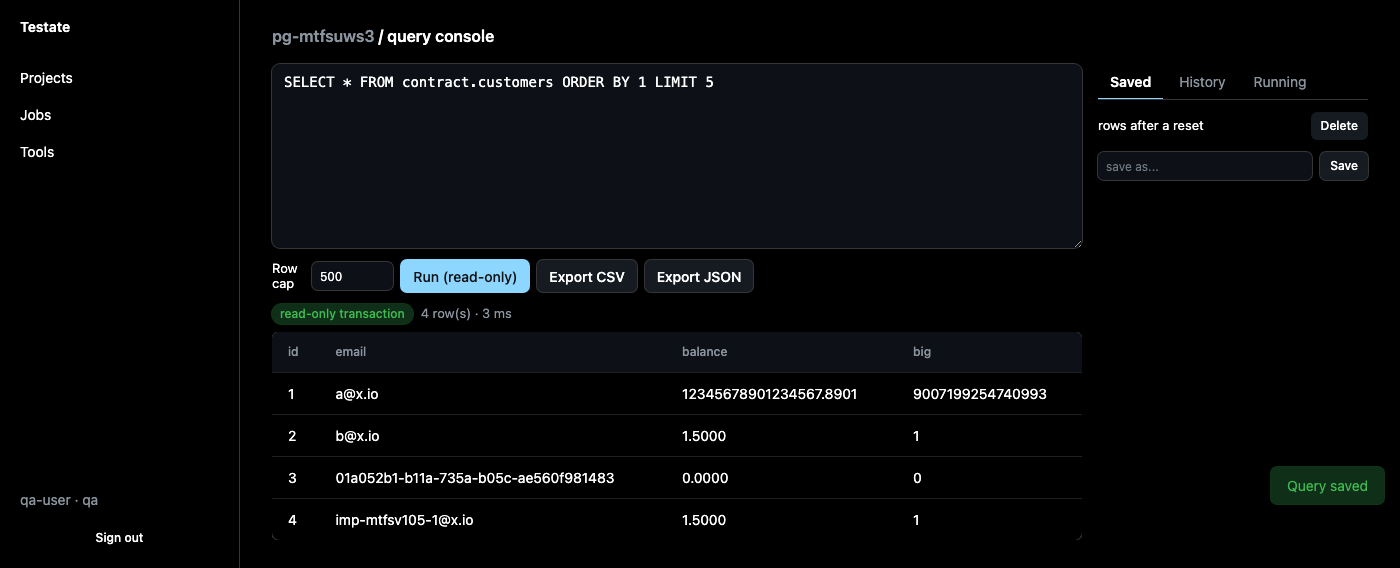
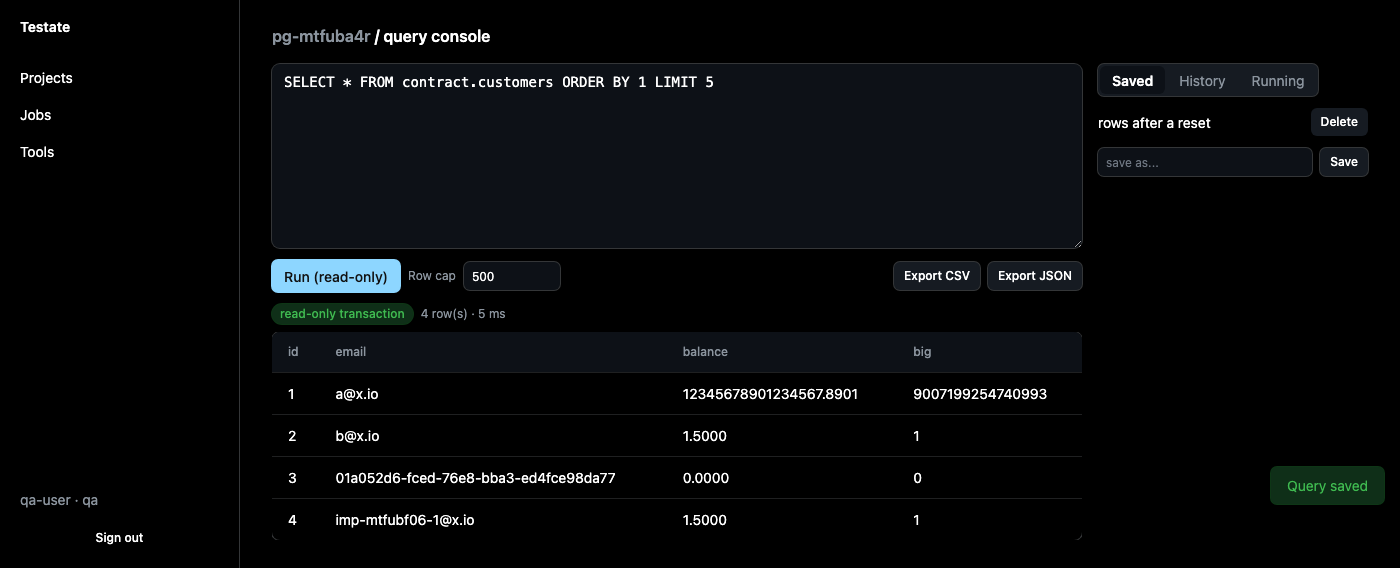
feat(web): the query console, the file browser, and the saved requests
The query console's controls were one row of five: Run sits with the row cap it
obeys, the two exports sit on the right, and what the result cost you reads
underneath in the footer's voice. The side panel's own tabs are segmented, not
a second underline row inside a panel.

The file browser's filter and its two ways back out are a toolbar, sizes line
up on the right, modified times go through the same formatter as every other
timestamp in the product rather than printing the raw ISO string, and the
download link looks like the control it is. An empty directory says so, and the
footer says how many entries you are looking at.

Saved requests say what they are for when there are none.

diff --git a/apps/web/src/features/storage/storage.view.tsx b/apps/web/src/features/storage/storage.view.tsx
@@ -1,14 +1,23 @@
 import type { JSX } from "@solidjs/web";
+import { formatWhen } from "@/lib/format.ts";
 import AdapterCrumb from "@/features/adapter/adapter.crumb.view.tsx";
 import { Errored, For, Loading, Show, Switch, Match } from "solid-js";
 import type { Entry, PreviewPayload } from "@testate/shared";
 
 import Badge from "@/components/badge.tsx";
 import Banner from "@/components/banner.tsx";
-import Button from "@/components/button.tsx";
+import Button, { buttonClass } from "@/components/button.tsx";
 import Dialog from "@/components/dialog.tsx";
 import Input from "@/components/input.tsx";
-import { Cell, Head, Row, Table } from "@/components/table.tsx";
+import {
+  Cell,
+  EmptyRow,
+  Head,
+  Row,
+  Table,
+  TableFooter,
+  TableToolbar,
+} from "@/components/table.tsx";
 import { hasRole } from "@/lib/session.ts";
 import { formatBytes } from "../states/states.format.ts";
 import { createStoragePresenter } from "./storage.presenter.ts";
@@ -133,12 +142,16 @@ function EntryRow(props: { presenter: StoragePresenter; entry: Entry }): JSX.Ele
           </a>
         </Show>
       </Cell>
-      <Cell>{props.entry.size_bytes === null ? "" : formatBytes(props.entry.size_bytes)}</Cell>
-      <Cell>{props.entry.modified_at ?? ""}</Cell>
+      <Cell numeric>
+        {props.entry.size_bytes === null ? "" : formatBytes(props.entry.size_bytes)}
+      </Cell>
+      <Cell class="whitespace-nowrap">
+        {props.entry.modified_at === null ? "" : formatWhen(props.entry.modified_at)}
+      </Cell>
       <Cell>
         <Show when={props.entry.kind === "file"}>
           <a
-            class="text-sm underline"
+            class={buttonClass("ghost", "sm")}
             href={props.presenter.downloadUrl(props.entry)}
             download={props.entry.name}
           >
@@ -183,30 +196,36 @@ export default function StorageView(props: { slug: string; id: string }): JSX.El
           )}
         </For>
       </h2>
-      <div class="flex flex-wrap items-center gap-2">
+      <TableToolbar
+        actions={
+          <>
+            <Button
+              size="sm"
+              variant="secondary"
+              disabled={presenter.path() === ""}
+              onClick={() => presenter.up()}
+            >
+              Up
+            </Button>
+            <Button
+              size="sm"
+              variant="secondary"
+              disabled={presenter.depth() === 0}
+              onClick={() => presenter.previous()}
+            >
+              Previous
+            </Button>
+          </>
+        }
+      >
         <Input
           size="sm"
+          class="w-56!"
           placeholder="filter by name"
           value={presenter.q()}
           onInput={(event) => presenter.setQ(event.currentTarget.value)}
         />
-        <Button
-          size="sm"
-          variant="ghost"
-          disabled={presenter.path() === ""}
-          onClick={() => presenter.up()}
-        >
-          Up
-        </Button>
-        <Button
-          size="sm"
-          variant="ghost"
-          disabled={presenter.depth() === 0}
-          onClick={() => presenter.previous()}
-        >
-          Previous
-        </Button>
-      </div>
+      </TableToolbar>
       <Show when={presenter.changedKey()}>
         {(fingerprint) => (
           <Banner variant="alert">
@@ -225,22 +244,33 @@ export default function StorageView(props: { slug: string; id: string }): JSX.El
             <thead>
               <tr>
                 <Head>Name</Head>
-                <Head>Size</Head>
+                <Head numeric>Size</Head>
                 <Head>Modified</Head>
                 <Head />
               </tr>
             </thead>
             <tbody>
-              <For each={presenter.page.value().data}>
-                {(entry) => <EntryRow presenter={presenter} entry={entry} />}
-              </For>
+              <Show
+                when={presenter.page.value().data.length > 0}
+                fallback={<EmptyRow>Nothing here. This directory is empty.</EmptyRow>}
+              >
+                <For each={presenter.page.value().data}>
+                  {(entry) => <EntryRow presenter={presenter} entry={entry} />}
+                </For>
+              </Show>
             </tbody>
           </Table>
-          <Show when={presenter.page.value().page.next_cursor !== null}>
-            <Button size="sm" variant="ghost" onClick={() => presenter.next()}>
-              Next page
-            </Button>
-          </Show>
+          <TableFooter
+            shown={presenter.page.value().data.length}
+            noun="entries"
+            hasMore={presenter.page.value().page.next_cursor !== null}
+          >
+            <Show when={presenter.page.value().page.next_cursor !== null}>
+              <Button size="sm" variant="secondary" onClick={() => presenter.next()}>
+                Next page
+              </Button>
+            </Show>
+          </TableFooter>
         </Loading>
       </Errored>
       <PreviewDialog presenter={presenter} />

diff --git a/apps/web/src/features/rest/rest.view.tsx b/apps/web/src/features/rest/rest.view.tsx
@@ -11,7 +11,7 @@ import Dialog from "@/components/dialog.tsx";
 import Input from "@/components/input.tsx";
 import InputArea from "@/components/input-area.tsx";
 import Select from "@/components/select.tsx";
-import { Cell, Head, Row, Table } from "@/components/table.tsx";
+import { Cell, Head, Row, Table, EmptyRow } from "@/components/table.tsx";
 import { hasRole } from "@/lib/session.ts";
 import { METHOD_OPTIONS, createRestPresenter } from "./rest.presenter.ts";
 import type { RestPresenter } from "./rest.presenter.ts";
@@ -183,48 +183,57 @@ export default function RestView(props: { slug: string; id: string }): JSX.Eleme
               </tr>
             </thead>
             <tbody>
-              <For each={presenter.requests.value()}>
-                {(request) => (
-                  <Row>
-                    <Cell>
-                      <button
-                        type="button"
-                        class="cursor-pointer hover:underline"
-                        onClick={() => presenter.select(request)}
-                      >
-                        {request.name}
-                      </button>
-                    </Cell>
-                    <Cell>
-                      <Badge variant="outline">{request.method}</Badge>
-                    </Cell>
-                    <Cell>
-                      <code>{request.path}</code>
-                    </Cell>
-                    <Cell>{request.expected_status ?? "any"}</Cell>
-                    <Cell>
-                      <Show when={hasRole("qa")}>
-                        <div class="flex gap-1">
-                          <Button
-                            size="sm"
-                            variant="secondary"
-                            onClick={() => void presenter.run(request)}
-                          >
-                            Run
-                          </Button>
-                          <Button
-                            size="sm"
-                            variant="ghost"
-                            onClick={() => void presenter.remove(request)}
-                          >
-                            Delete
-                          </Button>
-                        </div>
-                      </Show>
-                    </Cell>
-                  </Row>
-                )}
-              </For>
+              <Show
+                when={presenter.requests.value().length > 0}
+                fallback={
+                  <EmptyRow>
+                    No saved requests yet. Save one to run it around a checkout, or by hand.
+                  </EmptyRow>
+                }
+              >
+                <For each={presenter.requests.value()}>
+                  {(request) => (
+                    <Row>
+                      <Cell>
+                        <button
+                          type="button"
+                          class="cursor-pointer hover:underline"
+                          onClick={() => presenter.select(request)}
+                        >
+                          {request.name}
+                        </button>
+                      </Cell>
+                      <Cell>
+                        <Badge variant="outline">{request.method}</Badge>
+                      </Cell>
+                      <Cell>
+                        <code>{request.path}</code>
+                      </Cell>
+                      <Cell>{request.expected_status ?? "any"}</Cell>
+                      <Cell>
+                        <Show when={hasRole("qa")}>
+                          <div class="flex gap-1">
+                            <Button
+                              size="sm"
+                              variant="secondary"
+                              onClick={() => void presenter.run(request)}
+                            >
+                              Run
+                            </Button>
+                            <Button
+                              size="sm"
+                              variant="ghost"
+                              onClick={() => void presenter.remove(request)}
+                            >
+                              Delete
+                            </Button>
+                          </div>
+                        </Show>
+                      </Cell>
+                    </Row>
+                  )}
+                </For>
+              </Show>
             </tbody>
           </Table>
         </Loading>

diff --git a/apps/web/src/features/data/query.view.tsx b/apps/web/src/features/data/query.view.tsx
@@ -95,7 +95,7 @@ function MongoForm(props: { presenter: QueryPresenter }): JSX.Element {
 function ResultTable(props: { result: QueryResult }): JSX.Element {
   return (
     <div class="grid gap-2">
-      <div class="flex flex-wrap items-center gap-2 text-sm">
+      <div class="flex flex-wrap items-center gap-2 text-xs">
         <Badge variant={ENFORCEMENT_VARIANT[props.result.read_only_enforcement]}>
           {ENFORCEMENT_TEXT[props.result.read_only_enforcement]}
         </Badge>
@@ -171,35 +171,42 @@ export default function QueryView(props: { slug: string; id: string }): JSX.Elem
             >
               <MongoForm presenter={presenter} />
             </Show>
-            <div class="flex flex-wrap items-center gap-2">
-              <label class="flex items-center gap-2 text-sm">
-                <span>Row cap</span>
-                <Input
+            <div class="flex flex-wrap items-center justify-between gap-2">
+              <div class="flex flex-wrap items-center gap-2">
+                <Button type="submit" variant="primary" disabled={presenter.busy()}>
+                  {presenter.busy() ? "Running..." : "Run (read-only)"}
+                </Button>
+                <label class="flex items-center gap-2 text-xs text-kumo-subtle">
+                  <span>Row cap</span>
+                  <Input
+                    size="sm"
+                    class="w-24!"
+                    type="number"
+                    min="1"
+                    max="5000"
+                    value={presenter.rowCap()}
+                    onInput={(event) => presenter.setRowCap(event.currentTarget.value)}
+                  />
+                </label>
+              </div>
+              <div class="flex flex-wrap items-center gap-2">
+                <Button
+                  type="button"
                   size="sm"
-                  type="number"
-                  min="1"
-                  max="5000"
-                  value={presenter.rowCap()}
-                  onInput={(event) => presenter.setRowCap(event.currentTarget.value)}
-                />
-              </label>
-              <Button type="submit" variant="primary" disabled={presenter.busy()}>
-                {presenter.busy() ? "Running..." : "Run (read-only)"}
-              </Button>
-              <Button
-                type="button"
-                variant="secondary"
-                onClick={() => void presenter.exportAs("csv")}
-              >
-                Export CSV
-              </Button>
-              <Button
-                type="button"
-                variant="secondary"
-                onClick={() => void presenter.exportAs("json")}
-              >
-                Export JSON
-              </Button>
+                  variant="secondary"
+                  onClick={() => void presenter.exportAs("csv")}
+                >
+                  Export CSV
+                </Button>
+                <Button
+                  type="button"
+                  size="sm"
+                  variant="secondary"
+                  onClick={() => void presenter.exportAs("json")}
+                >
+                  Export JSON
+                </Button>
+              </div>
             </div>
             <Show when={presenter.error()}>
               {(message) => <Banner variant="error">{message()}</Banner>}

diff --git a/apps/web/src/features/data/query-side.view.tsx b/apps/web/src/features/data/query-side.view.tsx
@@ -19,10 +19,16 @@ export default function SidePanel(props: { presenter: QueryPresenter }): JSX.Ele
   const [tab, setTab] = createSignal<SideTab>("saved");
   return (
     <aside class="grid content-start gap-3">
-      <Tabs items={SIDE_TABS} value={tab()} onChange={setTab} label="Query lists" />
+      <Tabs
+        items={SIDE_TABS}
+        value={tab()}
+        onChange={setTab}
+        label="Query lists"
+        variant="segmented"
+      />
       <Show when={tab() === "saved"}>
         <Loading fallback={<p class="text-kumo-subtle">Loading...</p>}>
-          <ul class="grid gap-1 text-sm">
+          <ul class="grid gap-1 text-base">
             <For each={props.presenter.saved.value()}>
               {(query) => (
                 <li class="flex items-center justify-between gap-2">
